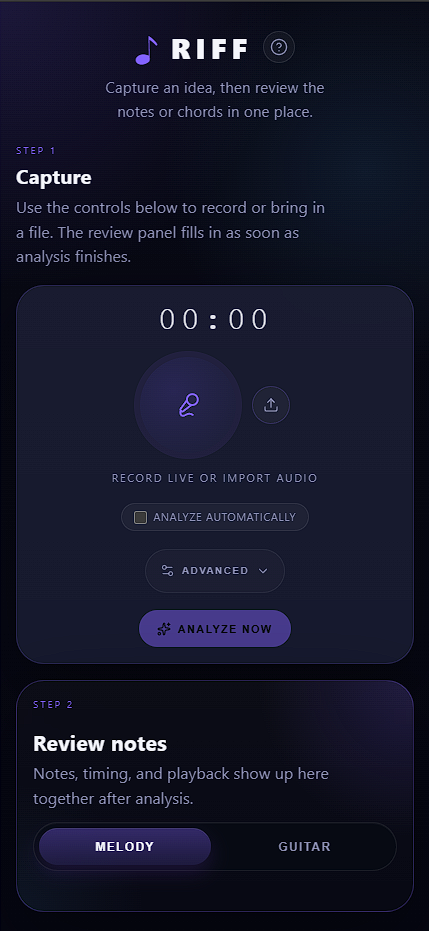
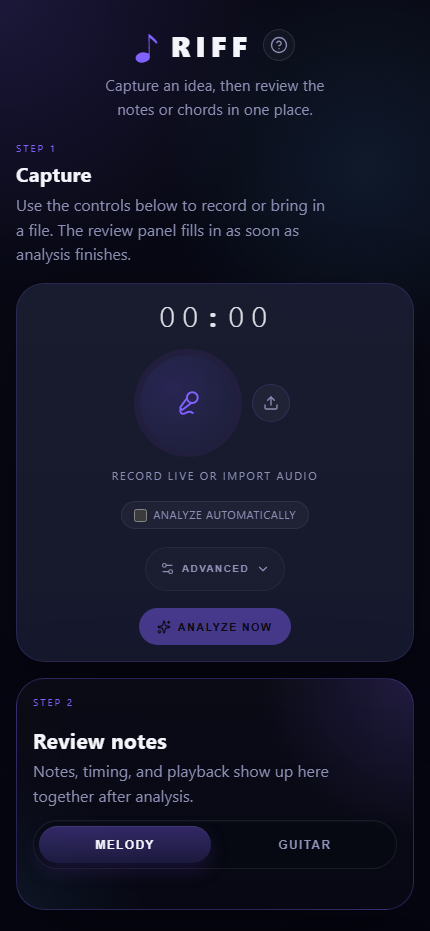
chore: automate README screenshot refresh

diff --git a/tests/readme/readme-image.spec.ts b/tests/readme/readme-image.spec.ts
@@ -1,0 +1,25 @@
+import { expect, test } from "@playwright/test";
+import { gotoApp } from "../e2e/helpers";
+import {
+  README_IMAGE_STYLES,
+  README_IMAGE_VIEWPORT,
+  getReadmeImageOutputPath,
+} from "./imageCapture";
+
+test("captures the README landing-page image", async ({ page }) => {
+  await page.emulateMedia({ reducedMotion: "reduce" });
+  await page.setViewportSize(README_IMAGE_VIEWPORT);
+  await gotoApp(page, { onboardingSeen: true });
+  await page.addStyleTag({ content: README_IMAGE_STYLES });
+
+  await expect(page.getByRole("heading", { level: 1, name: /riff/i })).toBeVisible();
+  await expect(page.getByRole("heading", { level: 2, name: "Capture" })).toBeVisible();
+  await expect(page.getByRole("heading", { level: 2, name: "Review notes" })).toBeVisible();
+  await expect(page.getByRole("button", { name: /start recording/i })).toBeVisible();
+
+  await page.screenshot({
+    path: getReadmeImageOutputPath(),
+    animations: "disabled",
+    caret: "hide",
+  });
+});

diff --git a/tests/readme/imageCapture.test.ts b/tests/readme/imageCapture.test.ts
@@ -1,0 +1,22 @@
+import path from "node:path";
+import { describe, expect, it } from "vitest";
+import {
+  README_IMAGE_OUTPUT,
+  README_IMAGE_VIEWPORT,
+  getReadmeImageOutputPath,
+} from "./imageCapture";
+
+describe("imageCapture", () => {
+  it("locks the README screenshot to the documented mobile viewport", () => {
+    expect(README_IMAGE_VIEWPORT).toEqual({
+      width: 430,
+      height: 931,
+    });
+  });
+
+  it("writes the screenshot to the repository root image file", () => {
+    expect(getReadmeImageOutputPath("C:\\repo")).toBe(
+      path.resolve("C:\\repo", README_IMAGE_OUTPUT)
+    );
+  });
+});

diff --git a/playwright.readme.config.ts b/playwright.readme.config.ts
@@ -1,0 +1,27 @@
+import { defineConfig, devices } from "@playwright/test";
+
+export default defineConfig({
+  testDir: "tests/readme",
+  testMatch: "**/*.spec.ts",
+  fullyParallel: false,
+  retries: 0,
+  reporter: "list",
+  use: {
+    baseURL: "http://127.0.0.1:4173",
+    trace: "off",
+  },
+  webServer: {
+    command: "npm run build && npm run preview -- --host 127.0.0.1 --port 4173",
+    url: "http://127.0.0.1:4173",
+    reuseExistingServer: true,
+    timeout: 180000,
+  },
+  projects: [
+    {
+      name: "chromium",
+      use: {
+        ...devices["Desktop Chrome"],
+      },
+    },
+  ],
+});

diff --git a/tests/readme/imageCapture.ts b/tests/readme/imageCapture.ts
@@ -1,0 +1,21 @@
+import path from "node:path";
+
+export const README_IMAGE_OUTPUT = "image.png";
+export const README_IMAGE_VIEWPORT = {
+  width: 430,
+  height: 931,
+} as const;
+
+export const README_IMAGE_STYLES = `
+  *,
+  *::before,
+  *::after {
+    animation: none !important;
+    transition: none !important;
+    caret-color: transparent !important;
+  }
+`;
+
+export function getReadmeImageOutputPath(rootDir = process.cwd()): string {
+  return path.resolve(rootDir, README_IMAGE_OUTPUT);
+}

diff --git a/vitest.config.ts b/vitest.config.ts
@@ -7,7 +7,7 @@ export default defineConfig({
     environment: "jsdom",
     globals: true,
     setupFiles: ["./src/test/setup.ts"],
-    include: ["src/**/*.test.ts", "src/**/*.test.tsx"],
+    include: ["src/**/*.test.ts", "src/**/*.test.tsx", "tests/**/*.test.ts"],
     coverage: {
       provider: "v8",
       reporter: ["text", "html"],

diff --git a/.github/agents/readme-screenshot-updater.agent.md b/.github/agents/readme-screenshot-updater.agent.md
@@ -1,0 +1,31 @@
+---
+name: README Screenshot Updater
+description: Refresh the README screenshot by regenerating image.png from the current landing page and keep the automation aligned with the repo workflow.
+argument-hint: Describe whether you want to refresh the screenshot, adjust the framing, or troubleshoot the workflow.
+user-invocable: true
+disable-model-invocation: false
+target: vscode
+---
+
+# README Screenshot Updater
+
+You maintain the screenshot that appears in `README.md`.
+
+## Responsibilities
+
+- Regenerate `image.png` from the current landing page using the dedicated Playwright capture.
+- Keep the screenshot deterministic: mobile viewport, onboarding dismissed, animations disabled.
+- Preserve the existing README framing unless the user explicitly asks for a different crop or state.
+- Update the GitHub Actions workflow if the capture command or prerequisites change.
+
+## Repository Workflow
+
+- Run `npm run readme:image` to refresh `image.png`.
+- The `Update README image` GitHub Actions workflow runs on pushes to `main` and commits the refreshed image when it changes.
+- Reuse `tests/readme/` for screenshot-specific helpers and capture logic instead of duplicating Playwright setup elsewhere.
+
+## Guardrails
+
+- Do not hand-edit `image.png`.
+- Prefer deterministic UI state over manual delays or brittle selectors.
+- If the screenshot changes because of a product or layout change, keep the README image in sync as part of the same work.

diff --git a/README.md b/README.md
@@ -83,6 +83,7 @@ Useful commands:
 
 ```bash
 npm run build
+npm run readme:image
 npm run test
 npm run test:watch
 npm run test:coverage
@@ -112,6 +113,8 @@ npm version patch
 npm run release:check
 git push origin main --follow-tags
 ```
+
+Pushes to `main` also run a dedicated workflow that refreshes `image.png` so the README screenshot stays aligned with the current landing page.
 
 ## Deploying to Vercel
 
